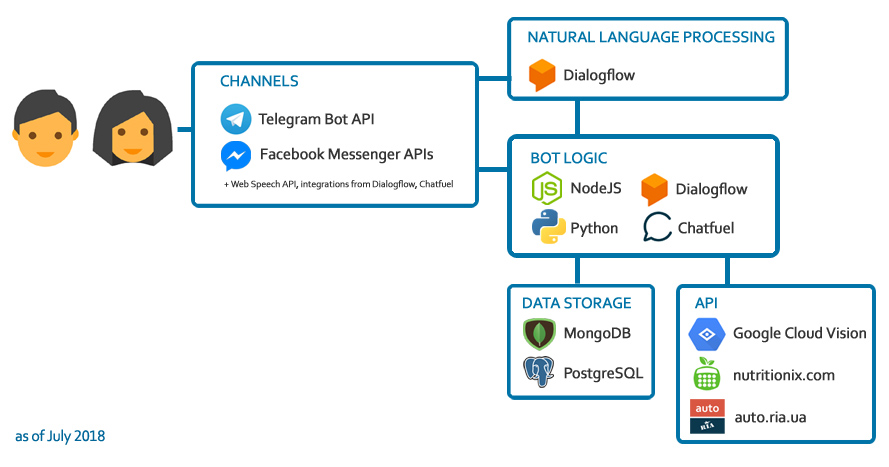
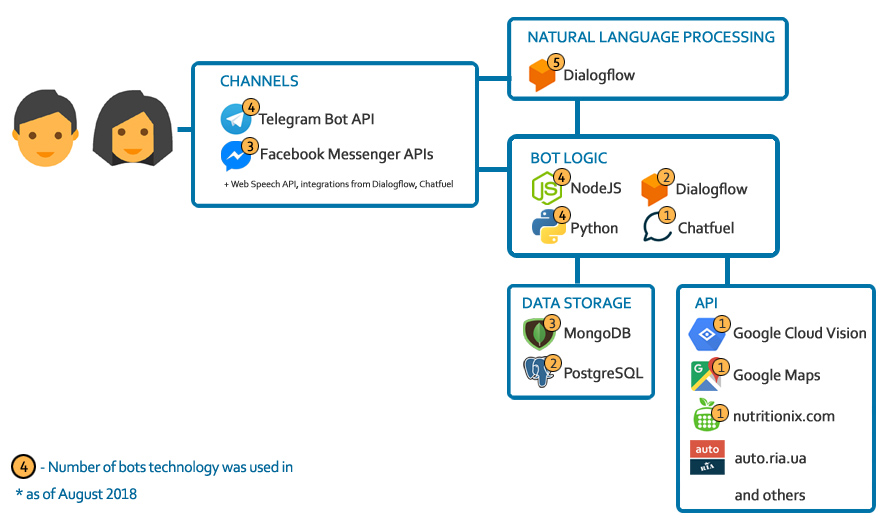
Update - August 28, 2018

Changed region(s): [[0.2126, 0.03, 1.0, 0.9893], [0.0, 0.1499, 0.2126, 0.3597], [0.0, 0.8694, 0.3341, 0.9593]]

diff --git a/index.html b/index.html
@@ -31,7 +31,7 @@
         body {font-family:  'Open Sans', 'Verdana', sans-serif; font-size: 15px;}
     </style>
 
-    <title>Iurii Dziuban - chatbot development</title>
+    <title>Iurii Dziuban - Chatbot Development</title>
 
     <!-- JavaScript (Bootstrap etc) -->
     <script src="https://code.jquery.com/jquery-3.2.1.slim.min.js" integrity="sha384-KJ3o2DKtIkvYIK3UENzmM7KCkRr/rE9/Qpg6aAZGJwFDMVNA/GpGFF93hXpG5KkN" crossorigin="anonymous"></script>
@@ -42,7 +42,7 @@
 <body>
     <div class="container">
         <div align="right">
-            <span style="font-size: 12px;">Last updated: July 11, 2018 [updated monthly] - v.0.6 </span>
+            <span style="font-size: 12px;">Last updated: August 28, 2018 [updated monthly] - v.0.6 </span>
         </div>
 
         <div class="row" style="border-color: black">
@@ -75,10 +75,10 @@
                     My current tech stack in regard to chatbots looks like this:
                 </div>
                 <div class="container border rounded">
-                    <img src="public/img/stack.jpg" class="img-fluid" width="889px" height="467px">
+                    <img src="public/img/stack.jpg" class="img-fluid" width="889px" height="524px">
                 </div>
                 <div>
-                    Other things I'm working/worked with: <i>Flask, Github, Heroku etc</i>
+                    Other things I'm working/worked with: <i>Flask, Github, Heroku, AWS Lambda/S3 etc</i>
                 </div>
             </div>
         </div>
@@ -88,6 +88,44 @@
         <div>
             <h4><a name="projects">Projects</a></h4>
             Here are the projects that I’ve done (the most recent go first):
+            <br>
+
+            <div class="border rounded p-3">
+                <strong><a name="guesstheplacebot" href="https://github.com/IuriiD/guess_the_place_bot_JS" target="_blank">'GuessThePlaceBot'</a></strong> <a href="https://t.me/GuessThePlaceBot" class="btn btn-success btn-sm" target="_blank">Telegram</a> <a href="https://github.com/IuriiD/guess_the_place_bot_JS" class="btn btn-secondary btn-sm" target="_blank">Github</a>  (August 2018)
+                <br>
+                <a href="public/img/gtpb-stack.png" target="_blank"><img src="public/img/gtpb-stack.png" class="img-fluid"></a>
+                <br>
+                Do you know your city well? Can you recognize its places by street view photos? Play a game with <b><a href="https://t.me/GuessThePlaceBot" target="_blank">GuessThePlaceBot</a></b> and check that ;)
+                This is a Telegram bot that asks to identify places in a chosen city by Google Street View images.
+                Built using NodeJS for bot logic, Telegram Bot API (<a href="https://github.com/telegraf/telegraf" target="_blank">Telegraf</a> wrapper), hosted on AWS Lambda
+                [@todo: add PostgreSQL for storing data].
+                <br><b>Note:</b> Doesn't work on Telegram Desktop or Telegram for Web (platforms limitation - don't allow to send location)
+                <br>
+                <br>
+                <div class="row">
+                    <div class="col">
+                        <iframe width="340" height="220" src="https://www.youtube.com/embed/wnC-QVKlDUw" frameborder="0" allow="autoplay; encrypted-media" allowfullscreen></iframe>
+                    </div>
+                    <div class="col">
+                        <a href="public/img/gtpb-1.jpg" target="_blank"><img src="public/img/gtpb-1.jpg" class="img-fluid img-thumbnail" style="max-width: 330px"></a>
+                    </div>
+                    <div class="col">
+                        <a href="public/img/gtpb-2.jpg" target="_blank"><img src="public/img/gtpb-2.jpg" class="img-fluid img-thumbnail" style="max-width: 335px"></a>
+                    </div>
+                </div>
+                <div class="row">
+                    <div class="col">
+                        <a href="public/img/gtpb-3.jpg" target="_blank"><img src="public/img/gtpb-3.jpg" class="img-fluid img-thumbnail" style="max-width: 335px"></a>
+                    </div>
+                    <div class="col">
+                        <a href="public/img/gtpb-4.jpg" target="_blank"><img src="public/img/gtpb-4.jpg" class="img-fluid img-thumbnail" style="max-width: 335px"></a>
+                    </div>
+                    <div class="col">
+                        <a href="public/img/gtpb-5.jpg" target="_blank"><img src="public/img/gtpb-5.jpg" class="img-fluid img-thumbnail" style="max-width: 335px"></a>
+                    </div>
+                </div>
+            </div>
+
             <br>
 
             <div class="border rounded p-3">
@@ -126,7 +164,7 @@
             <br>
 
             <div class="border rounded p-3">
-                <strong><a name="foodcompositionbotjs" href="https://github.com/IuriiD/food_composition_chatbot_JS" target="_blank">'FoodCompositionBot v2.0'</a></strong> <a href="https://www.facebook.com/Foodcompositionbot-230099550919706/" class="btn btn-success btn-sm" target="_blank">Facebook</a> (is reviewed by Facebook since July 01) <a href="https://github.com/IuriiD/food_composition_chatbot_JS" class="btn btn-secondary btn-sm" target="_blank">Github</a> (June 2018)
+                <strong><a name="foodcompositionbotjs" href="https://github.com/IuriiD/food_composition_chatbot_JS" target="_blank">'FoodCompositionBot v2.0'</a></strong> <a href="https://www.facebook.com/Foodcompositionbot-230099550919706/" class="btn btn-success btn-sm" target="_blank">Facebook</a> <b>(is reviewed by Facebook since July 01)</b> <a href="https://github.com/IuriiD/food_composition_chatbot_JS" class="btn btn-secondary btn-sm" target="_blank">Github</a> (June 2018)
                 <br>
                 <a href="public/img/foodcompbotjs-stack.png" target="_blank"><img src="public/img/foodcompbotjs-stack.png" class="img-fluid"></a>
                 <div>
@@ -181,7 +219,7 @@
             <br>
 
             <div class="border rounded p-3">
-                <strong><a name="remindmebot" href="https://github.com/IuriiD/remindmebot" target="_blank">'Remindmebot'</a></strong> <a href="https://www.facebook.com/RemindMeBot/" class="btn btn-success btn-sm" target="_blank">Facebook</a> (available for testers only) <a href="https://github.com/IuriiD/remindmebot" class="btn btn-secondary btn-sm" target="_blank">Github</a> (May 2018)
+                <strong><a name="remindmebot" href="https://github.com/IuriiD/remindmebot" target="_blank">'Remindmebot'</a></strong> <a href="https://www.facebook.com/RemindMeBot/" class="btn btn-success btn-sm" target="_blank">Facebook</a> (not public, available for testers only) <a href="https://github.com/IuriiD/remindmebot" class="btn btn-secondary btn-sm" target="_blank">Github</a> (May 2018)
                 <br>
                 <a href="public/img/remindmebot-stack.png" target="_blank"><img src="public/img/remindmebot-stack.png" class="img-fluid"></a>
                 <br>
@@ -190,6 +228,7 @@
                 fulfill a test task writing a bot on node.js. I took this challenge. Though all my previous projects were on Python, I never coded on Javascript before and in general up to 3/4 of instruments used in this project were new for me, I seem to have coped with
                 the task. You can read a bit more about how I made the way from my first "Hello world" on JS to writing and launching <a name="remindmebot" href="https://github.com/IuriiD/remindmebot" target="_blank">Remindmebot</a> in 60 hours <a href="stuff/remindmebot/remindmebot.html">here</a>.
                 <br>About this chatbot: it's a bot-reminder written on Node.js using Dialogflow and Facebook Messenger APIs and MongoDB. It can create reminders using NLU (for example it can understand phrases like "Remind me to go cycling at 7:00 on Mondays, Wednesdays and Fridays"), delete all or one specific reminder and alert reminders which can be "confirmed" or "snoozed".
+                <br>
                 <br>
                 <div class="row">
                     <div class="col">
@@ -314,6 +353,122 @@
             <br>
             <p>
                 <div>
+
+                    <div>
+                        <div class="row">
+                            <div class="col bg-success text-white">
+                                <br>
+                                Project "<a href="#guesstheplacebot" style="color: white;"><b>GuessThePlaceBot</b></a>" - STILL IN DEVELOPMENT (27/08/2018)
+                                <br>
+                                <br>
+                            </div>
+                        </div>
+                        <div class="row">
+                            <div class="col border border-success">
+                                <a href="https://github.com/telegraf/telegraf">Telegraf - Telegram bot framework for Node.js</a> // chatbot, node, telegraf
+                                <br>
+
+                                <a href="https://hackernoon.com/serverless-telegram-bot-on-aws-lambda-851204d4236c">Serverless Telegram bot on AWS Lambda</a> // chatbot, aws lambda
+                                <br>
+
+                                <a href="https://aws.amazon.com/rds/postgresql/">Amazon RDS for PostgreSQL</a> // amazon, postgresql, aws rds
+                                <br>
+
+                                <a href="https://developers.google.com/maps/documentation/streetview/intro">Google Street View - Developer Guide</a> // google, street view
+                                <br>
+
+                                <a href="https://kinsta.com/blog/google-cloud-vs-aws/">Google Cloud vs AWS in 2018 (Comparing the Giants)</a> // cloud computing, google, aws
+                                <br>
+
+                                <a href="https://github.com/claudiajs/claudia-bot-builder">Claudia Bot Builder - easy deployment to AWS Lambda</a> // claudia, aws lambda
+                                <br>
+
+                                <a href="https://chatbotsmagazine.com/the-ultimate-guide-to-designing-a-chatbot-tech-stack-333eceb431da">The Ultimate Guide To Designing A Chatbot Tech Stack</a> // chatbot, stack
+                                <br>
+
+                                <a href="https://docs.aws.amazon.com/sdk-for-javascript/v2/developer-guide/using-lambda-functions.html">Tutorial: Creating and Using Lambda Functions</a> // amazon lambda, aws
+                                <br>
+                            </div>
+                        </div>
+                        <div class="row">
+                            <div class="col bg-success text-white">
+                                <br>
+                                Project "<a href="#guesstheplacebot" style="color: white;"><b>GuessThePlaceBot</b></a>" - START (07/08/2018)
+                                <br>
+                                <br>
+                            </div>
+                        </div>
+                    </div>
+
+                    <br>
+
+                    <a href="https://github.com/awsdocs/aws-doc-sdk-examples/blob/master/javascript/example_code/s3/s3_upload.js">Amazon S3 - Github examples</a> // amazon s3, aws
+                    <br>
+
+                    <a href="https://aws.amazon.com/s3/?nc=sn&loc=0">Amazon S3</a> // amazon s3, aws
+                    <br>
+
+                    <a href="https://medium.freecodecamp.org/write-less-do-more-with-javascript-es6-5fd4a8e50ee2">JavaScript ES6 — write less, do more</a> // javascript, es6
+                    <br>
+
+                    <a href="https://stackoverflow.com/questions/1279613/what-is-an-orm-and-where-can-i-learn-more-about-it">Object-Relational Mapping (ORM) is a technique that lets you query and manipulate data from a database using an object-oriented paradigm</a> // sql, orm, sequelize
+                    <br>
+
+                    <a href="http://docs.sequelizejs.com/">Sequelize - promise-based ORM for Node.js</a> // sql, orm, sequelize
+                    <br>
+
+                    <a href="https://medium.freecodecamp.org/machine-learning-how-to-go-from-zero-to-hero-40e26f8aa6da">Machine Learning: how to go from Zero to Hero</a> // machine learning, ml
+                    <br>
+
+                    <br>
+                    <div>
+                        <div class="row">
+                            <div class="col bg-info text-white">
+                                <br>
+                                Project "<a href="#finishphrasebot" style="color: white;"><b>FinishPhraseBot</b></a>" - END (20/07/2018)
+                                <br>
+                                <br>
+                            </div>
+                        </div>
+                        <div class="row">
+                            <div class="col border border-info">
+                                <a href="https://ifcomp.org/">The Interactive Fiction Competition (in context of chatbots)</a> // chatbot, interactive fiction
+                                <br>
+
+                                <a href="http://textadventures.co.uk/">Interactive fiction in context of chatbots</a> // chatbot, interactive fiction
+                                <br>
+
+                                <a href="https://medium.com/devschacht/node-hero-chapter-5-dd79607858f2">Работа с базами данных (Node Hero: Глава 5)</a> // node, db
+                                <br>
+
+                                <a href="https://deepmind.com/blog/wavenet-generative-model-raw-audio/">WaveNet: A Generative Model for Raw Audio</a> // chatbot, voicebot, wavenet
+                                <br>
+
+                                <a href="https://ai.googleblog.com/2017/12/tacotron-2-generating-human-like-speech.html">Tacotron 2: Generating Human-like Speech from Text</a> // tacotron, chatbot, google
+                                <br>
+
+                                <a href="https://ai.googleblog.com/2018/05/duplex-ai-system-for-natural-conversation.html">Google Duplex: An AI System for Accomplishing Real-World Tasks Over the Phone</a> // chatbot, voicebot, google duplex
+                                <br>
+
+                                <a href="https://jaanus.com/api-ai-voicebot/">How to build a simple web-based voice bot with api.ai</a> // chatbot, voicebot
+                                <br>
+
+                                <a href="https://chatbotsmagazine.com/a-new-approach-to-voice-user-interfaces-e1fbbadde717?gi=604e2f2e45e3">A New Approach to Voice User Interfaces</a> // chatbot, voicebot
+                                <br>
+                            </div>
+                        </div>
+                        <div class="row">
+                            <div class="col bg-info text-white">
+                                <br>
+                                Project "<a href="#finishphrasebot" style="color: white;"><b>FinishPhraseBot</b></a>" - START (13/07/2018)
+                                <br>
+                                <br>
+                            </div>
+                        </div>
+                    </div>
+
+                    <br>
+
                     <a href="https://node-postgres.com/features/connecting">Connecting to PostgreSQL</a> // postgreSQL
                     <br>
 
@@ -1277,15 +1432,16 @@
             <h4><a name="interests">Interests/About me</a></h4>
             I’m 35, I was born and live in Ukraine (<a href="https://www.google.com.ua/maps/@49.4413417,32.0787871,13.25z?hl=en">Cherkasy</a>). I came to coding from biology (have <a href="https://cdu.edu.ua/en/">master’s degree in human physiology, unfinished PhD</a>; while studying at school and university was a winner of All-Ukrainian Biological Olympiads). I have >10-years of experience as an English>Russian medical translator [<a href="http://medconsult.ru/">TA Medconsult</a>]), translated for  Novartis, Pfizer, Roche, Bristol-Myers Squibb, Sanofi, Regeneron Pharmaceuticals etc.
             <br>Passed a 2-month internship in a molecular biology lab <a href="http://www.anopheles-strasbourg.fr/">INSERM U963 / CNRS UPR9022</a> (Strasbourg, France).
-            <br>Have been learning to code for 10 months (~750 hours in net) so far (since October 2017).
+            <br>Have been learning to code for 11 months (~780 hours in net) so far (since October 2017).
             <br><br>
             Visual timeline of my education and jobs is as follows:
             <br>
             <a href="public/img/visual_cv.jpg" target="_blank"><img src="public/img/visual_cv.jpg" class="img-fluid img-thumbnail"></a>
             <br>
+            <br>
             I would like to be working on problems at the junction of coding and biology, psychology, education but other topics are also welcome.
             <br>
-            I’m married, we have 3 kids (born in 2012, 2014 & 2014), trying to keep a healthy balance between work and family/life. Our family/kids blog on <a href="https://www.youtube.com/channel/UCohWank8Tc0f6GocdyXuiPg">Youtube</a>. I like mounting biking – <a href="https://www.strava.com/athletes/20431137">Strava</a>.
+            I’m married, we have 3 kids (born in 2012, 2014 & 2014), trying to keep a healthy balance between work and family/life. Our family/kids blog on <a href="https://www.youtube.com/channel/UCohWank8Tc0f6GocdyXuiPg">Youtube</a>. <br>I like mounting biking – <a href="https://www.strava.com/athletes/20431137">Strava</a>.
         </p>
 
         <hr>
